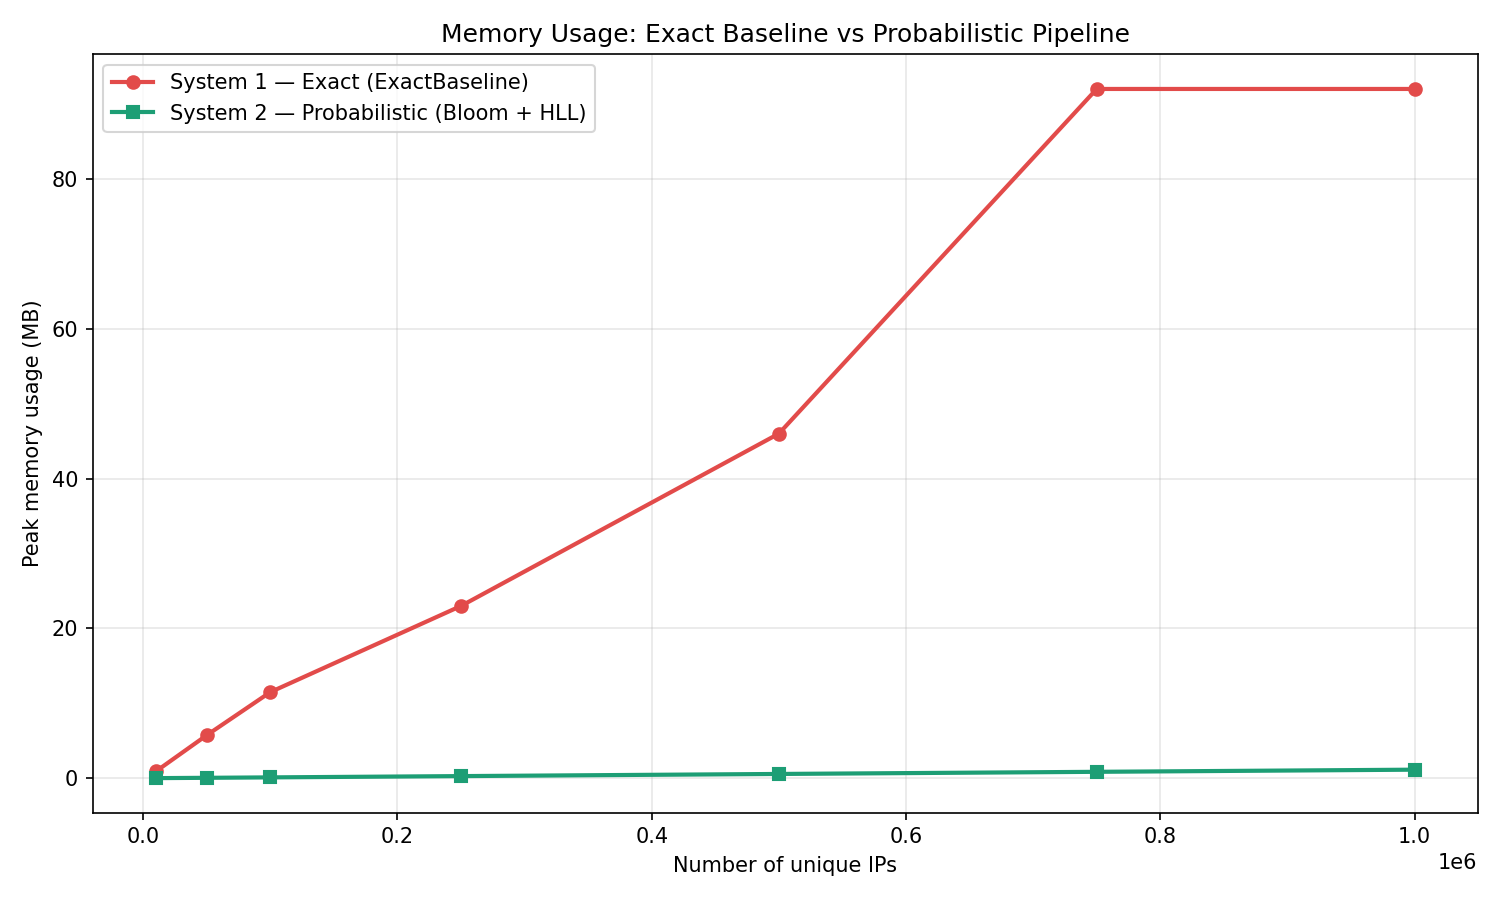
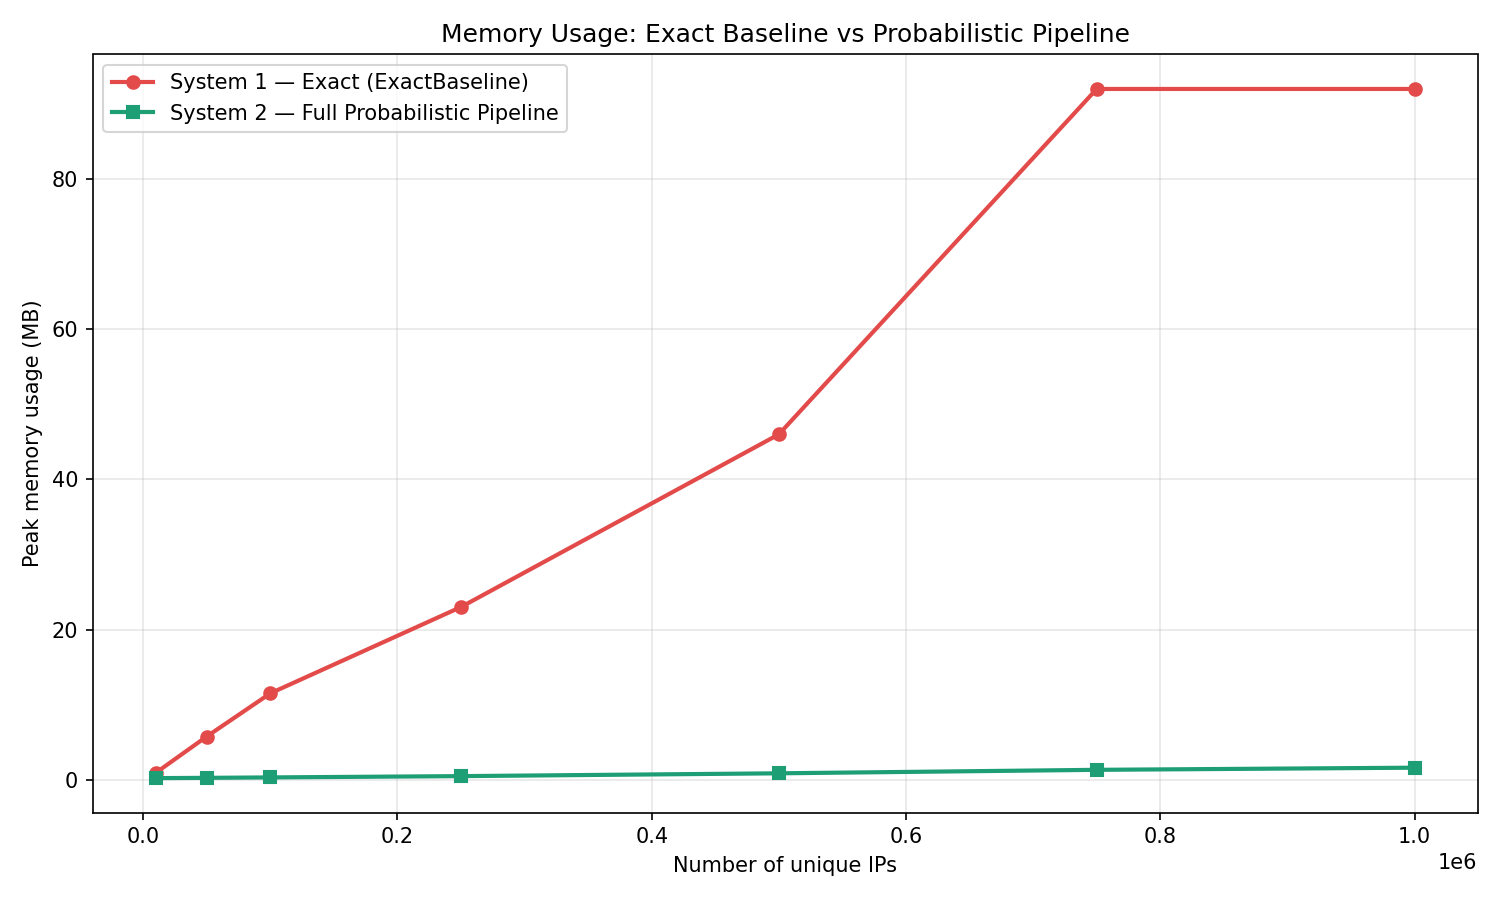
add whitelist blacklist dynamic population, process_and_decide method, test_pipeline.py

diff --git a/src/pipeline.py b/src/pipeline.py
@@ -14,38 +14,124 @@ class System2Pipeline:
 
     def __init__(self, expected_n=2000000, p=0.01, epsilon=0.001,
                  window_size=60, spike_multiplier=3.0, freq_threshold=0.00001):
-        self.bloom_filter = BloomFilter(n=expected_n, p=p)
+        # ── Bloom filter: two separate filters for whitelist and blacklist ──
+        self.whitelist = BloomFilter(n=expected_n, p=p)
+        self.blacklist = BloomFilter(n=expected_n, p=p)
+
+        # ── HyperLogLog: cardinality estimation ──
         self.hll = HyperLogLog(b=12)
+
+        # ── Count-Min Sketch: frequency estimation ──
         self.cms = CountMinSketch(t=5, k=int(2 / epsilon))
+
+        # ── Misra-Gries: heavy hitter detection ──
         self.mg = MisraGries(k=int(1 / epsilon))
+
+        # ── Window Manager: rolling time windows for spike detection ──
         self.window_manager = WindowManager(
             window_size_seconds=window_size,
             b=10,
             spike_multiplier=spike_multiplier
         )
+
         self.freq_threshold = freq_threshold
         self.total_processed = 0
 
     def process_entry(self, entry: LogEntry):
+        """
+        Process a single log entry through all four structures.
+        Updates all structures with the incoming IP.
+        """
         ip = entry.ip
         self.total_processed += 1
-        self.bloom_filter.insert(ip)
         self.hll.add(ip)
         self.cms.update(ip)
         self.mg.update(ip)
         self.window_manager.add(ip, timestamp=entry.timestamp)
 
+    def confirm_attacker(self, ip: str):
+        """
+        Called when an IP is confirmed as an attacker.
+        Adds the IP to the blacklist Bloom filter for fast future blocking.
+        """
+        self.blacklist.insert(ip)
+
+    def confirm_benign(self, ip: str):
+        """
+        Called when an IP is confirmed as benign.
+        Adds the IP to the whitelist Bloom filter for fast future allow.
+        """
+        self.whitelist.insert(ip)
+
+    def check_membership(self, ip: str) -> str:
+        """
+        Fast membership check using Bloom filters.
+        Returns 'block', 'allow', or 'unknown'.
+        """
+        if ip in self.blacklist:
+            return 'block'
+        if ip in self.whitelist:
+            return 'allow'
+        return 'unknown'
+
     def is_attack(self, ip: str) -> bool:
+        """
+        Full detection decision combining all four structures.
+        Returns True if any signal indicates an attack.
+
+        Signal 1 — Count-Min Sketch: frequency exceeds baseline threshold
+        Signal 2 — Misra-Gries: IP is a confirmed heavy hitter
+        Signal 3 — Window Manager: cardinality spike detected
+        """
         freq = self.cms.query(ip)
         in_heavy_hitters = ip in self.mg.counters
         cardinality_spike = self.window_manager.is_spike()
         return freq > self.freq_threshold or in_heavy_hitters or cardinality_spike
 
+    def process_and_decide(self, entry: LogEntry) -> str:
+        """
+        Full pipeline: process entry, check membership, detect attack.
+        Returns 'block', 'allow', or 'flag'.
+
+        This is the main method that combines everything:
+        1. Check Bloom filter blacklist — block immediately if known attacker
+        2. Check Bloom filter whitelist — allow immediately if known benign
+        3. Update all four structures with this entry
+        4. Run detection — if attack confirmed, add to blacklist
+        5. Return decision
+        """
+        ip = entry.ip
+
+        # ── Step 1: fast Bloom filter check ──
+        membership = self.check_membership(ip)
+        if membership == 'block':
+            return 'block'
+        if membership == 'allow':
+            return 'allow'
+
+        # ── Step 2: update all structures ──
+        self.process_entry(entry)
+
+        # ── Step 3: run detection ──
+        if self.is_attack(ip):
+            self.confirm_attacker(ip)
+            return 'flag'
+
+        # ── Step 4: confirm benign after enough normal behavior ──
+        freq = self.cms.query(ip)
+        if freq < self.freq_threshold / 10:
+            self.confirm_benign(ip)
+
+        return 'allow'
+
     def get_report(self, ip_to_query: str, phi=0.005):
+        """
+        Full analysis report for a queried IP.
+        """
         return {
             "total_logs": self.total_processed,
             "estimated_unique_ips": self.hll.estimate(),
-            "is_in_bloom_filter": ip_to_query in self.bloom_filter,
+            "membership": self.check_membership(ip_to_query),
             "cms_frequency": self.cms.query(ip_to_query),
             "mg_frequency": self.mg.query(ip_to_query),
             "is_attack": self.is_attack(ip_to_query),
@@ -56,10 +142,14 @@ class System2Pipeline:
         }
 
     def calculate_total_memory(self):
-        bf_mem = self.bloom_filter.memory_bytes()
+        """
+        Total memory of all structures in KB.
+        """
+        whitelist_mem = self.whitelist.memory_bytes()
+        blacklist_mem = self.blacklist.memory_bytes()
         cms_mem = self.cms.t * self.cms.k * 4
         hll_mem = self.hll.memory_bytes()
         mg_mem = self.mg.k * 48
         wm_mem = self.window_manager.memory_bytes()
-        total_bytes = bf_mem + cms_mem + hll_mem + mg_mem + wm_mem
+        total_bytes = whitelist_mem + blacklist_mem + cms_mem + hll_mem + mg_mem + wm_mem
         return total_bytes / 1024

diff --git a/tests/test_pipeline.py b/tests/test_pipeline.py
@@ -1,0 +1,63 @@
+import os
+import sys
+sys.path.insert(0, os.path.dirname(os.path.dirname(os.path.abspath(__file__))))
+
+from src.pipeline import System2Pipeline
+from src.log_parser import LogEntry
+
+print("=== System2Pipeline End-to-End Test ===")
+
+pipeline = System2Pipeline(expected_n=100000, epsilon=0.001, freq_threshold=0.00001)
+
+BASE = os.path.join(os.path.dirname(os.path.dirname(os.path.abspath(__file__))), 'data', 'raw')
+
+# ── Phase 1: seed with NASA benign traffic ──
+print("\n--- Phase 1: Seeding with benign traffic ---")
+from src.log_parser import stream_nasa_logs
+count = 0
+for entry in stream_nasa_logs(os.path.join(BASE, 'NASA_access_log_Jul95')):
+    decision = pipeline.process_and_decide(entry)
+    count += 1
+    if count >= 100000:
+        break
+
+print(f"Processed {count} benign entries")
+print(f"Estimated distinct IPs: {pipeline.hll.estimate()}")
+print(f"Total memory: {pipeline.calculate_total_memory():.2f} KB")
+
+# ── Phase 2: inject attack traffic ──
+print("\n--- Phase 2: Injecting attack traffic ---")
+from src.log_parser import stream_cic_logs
+attack_count = 0
+flagged = 0
+blocked = 0
+allowed = 0
+
+for entry in stream_cic_logs(os.path.join(BASE, '01-12', 'Syn.csv')):
+    decision = pipeline.process_and_decide(entry)
+    attack_count += 1
+    if decision == 'flag':
+        flagged += 1
+    elif decision == 'block':
+        blocked += 1
+    else:
+        allowed += 1
+    if attack_count >= 10000:
+        break
+
+print(f"Processed {attack_count} attack entries")
+print(f"Flagged:  {flagged}")
+print(f"Blocked:  {blocked}")
+print(f"Allowed:  {allowed}")
+
+# ── Phase 3: check report for known attacker ──
+print("\n--- Phase 3: Report for known attacker 172.16.0.5 ---")
+report = pipeline.get_report('172.16.0.5')
+print(f"Membership:          {report['membership']}")
+print(f"CMS frequency:       {report['cms_frequency']:.8f}")
+print(f"Is attack:           {report['is_attack']}")
+print(f"Heavy hitters:       {report['detected_heavy_hitters']}")
+print(f"Cardinality spike:   {report['cardinality_spike']}")
+print(f"Total memory:        {report['total_memory_kb']:.2f} KB")
+
+print("\n=== Test complete ===")

diff --git a/evaluation/benchmark_memory.py b/evaluation/benchmark_memory.py
@@ -7,6 +7,8 @@ sys.path.insert(0, os.path.dirname(os.path.dirname(os.path.abspath(__file__))))
 from src.bloom_filter import BloomFilter
 from src.hyperloglog import HyperLogLog
 from src.baseline_system import ExactBaseline
+from src.pipeline import System2Pipeline
+from src.log_parser import LogEntry
 
 
 def generate_ips(n):
@@ -37,13 +39,12 @@ for n in sizes:
     tracemalloc.stop()
     system1_memory.append(peak1 / 1024 / 1024)
 
-    # ── System 2: Bloom filter + HyperLogLog ──
+    # ── System 2: Full System2Pipeline ──
     tracemalloc.start()
-    bf = BloomFilter(n=n, p=0.01)
-    hll = HyperLogLog(b=10)
+    pipeline = System2Pipeline(expected_n=n, epsilon=0.001)
     for ip in ips:
-        bf.insert(ip)
-        hll.add(ip)
+        entry = LogEntry(ip=ip, timestamp=0.0, method=None, url=None, status=None, bytes_transferred=0, is_attack=False, label='BENIGN')
+        pipeline.process_entry(entry)
     _, peak2 = tracemalloc.get_traced_memory()
     tracemalloc.stop()
     system2_memory.append(peak2 / 1024 / 1024)
@@ -52,7 +53,7 @@ for n in sizes:
 
 plt.figure(figsize=(10, 6))
 plt.plot(sizes, system1_memory, marker='o', label='System 1 — Exact (ExactBaseline)', color='#E24B4A', linewidth=2)
-plt.plot(sizes, system2_memory, marker='s', label='System 2 — Probabilistic (Bloom + HLL)', color='#1D9E75', linewidth=2)
+plt.plot(sizes, system2_memory, marker='s', label='System 2 — Full Probabilistic Pipeline', color='#1D9E75', linewidth=2)
 plt.xlabel('Number of unique IPs')
 plt.ylabel('Peak memory usage (MB)')
 plt.title('Memory Usage: Exact Baseline vs Probabilistic Pipeline')
